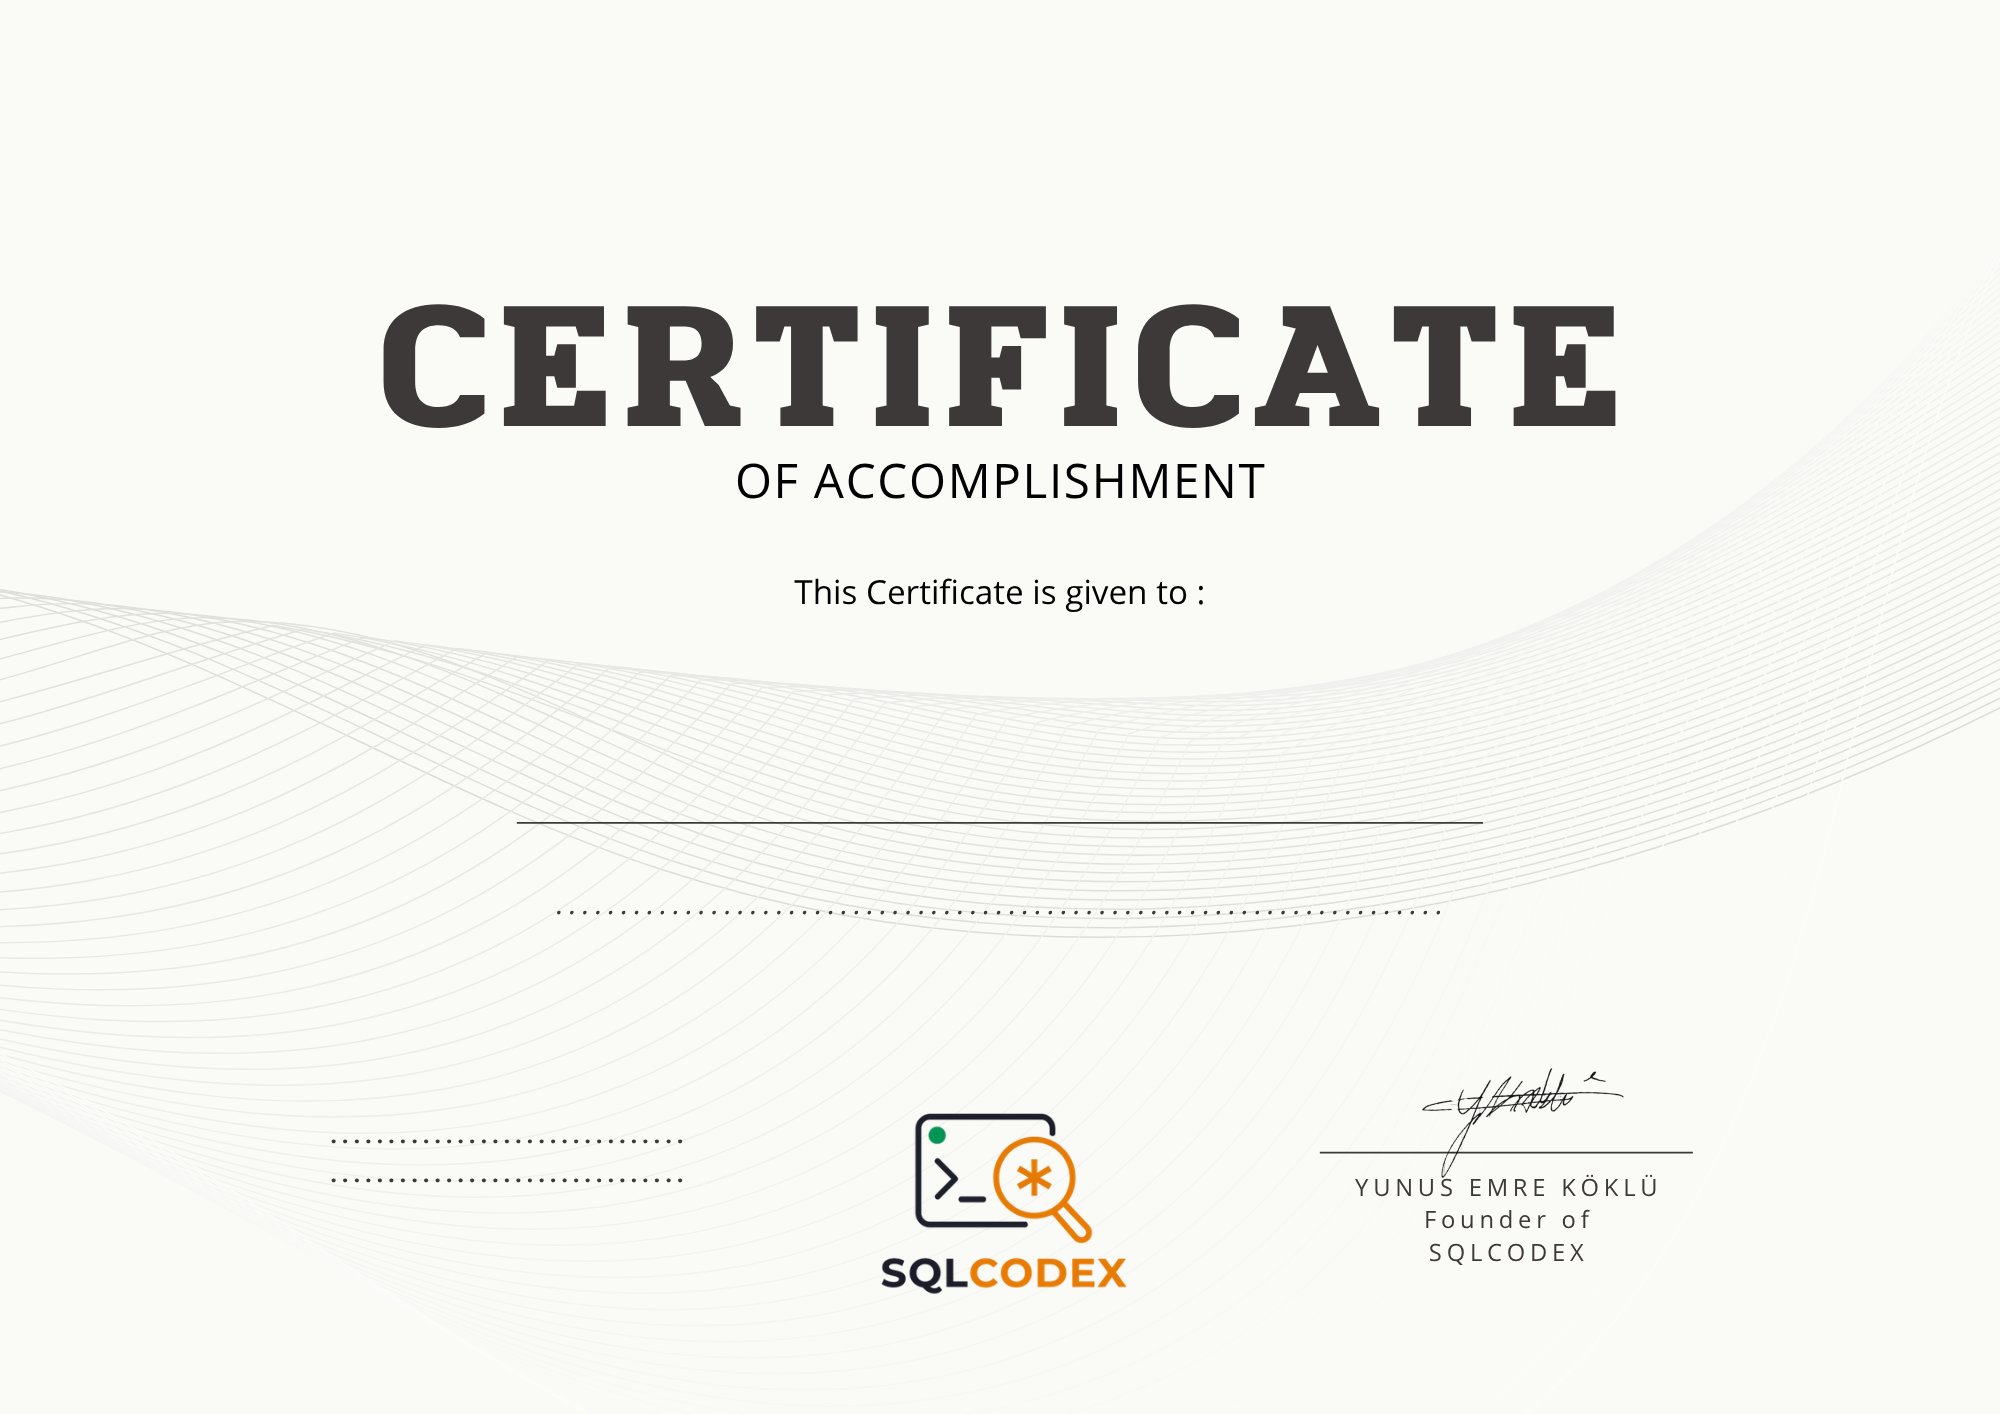
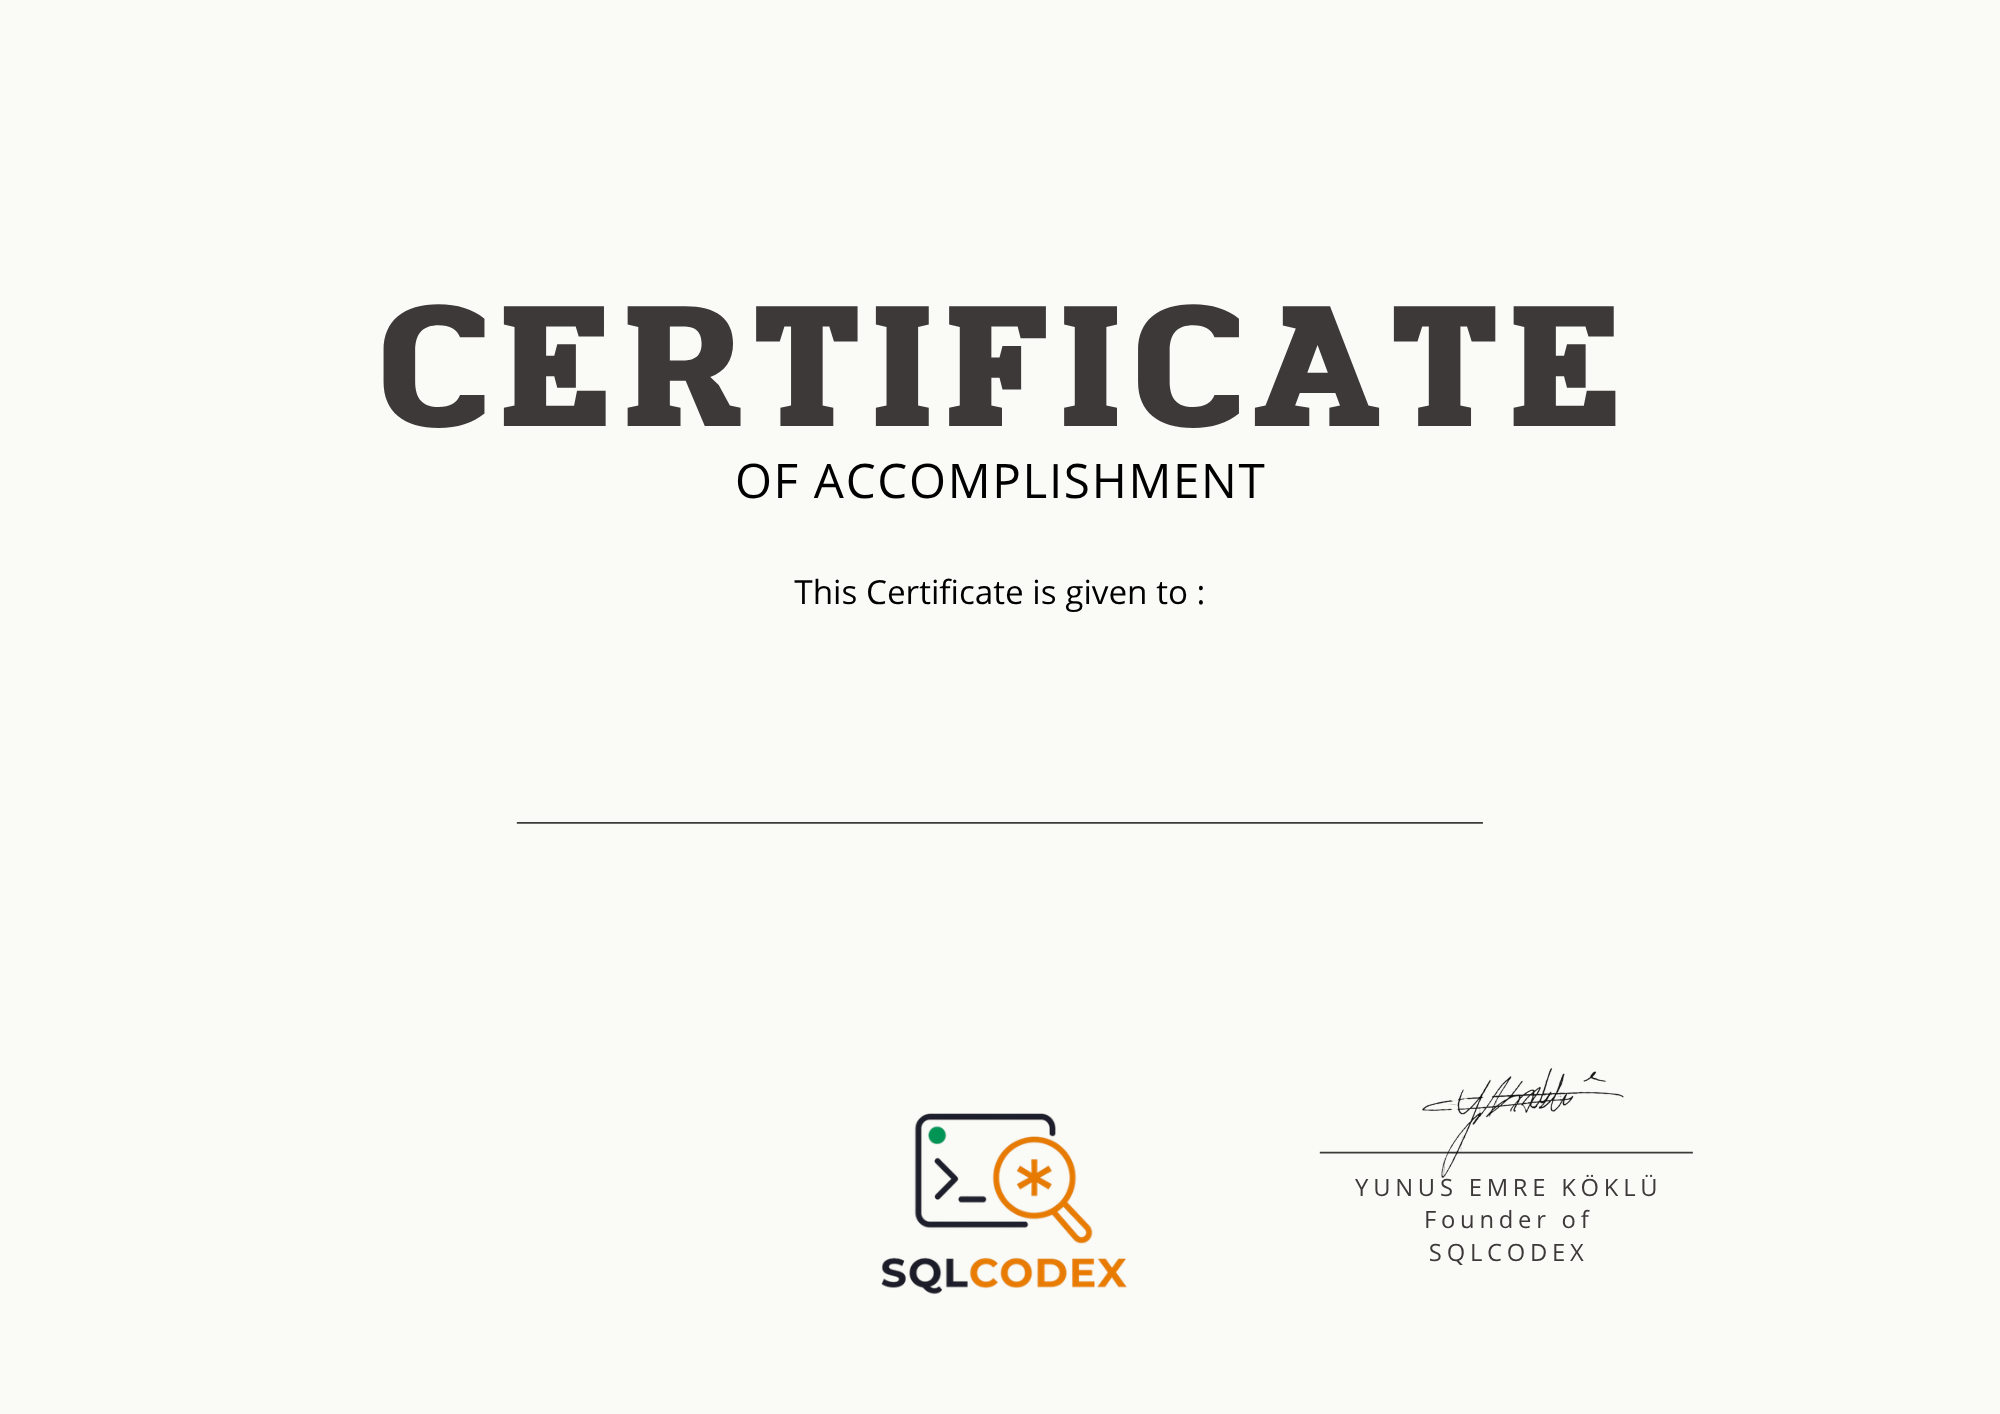
Faz 6a takip turu 6 devam: Noktalı çizgi düzeltmesi + "Tümünü Tamamla" büyük sertifikası
Standart şablon, kullanıcının noktaları tamamen kaldırdığı yeni sürümüyle
değiştirildi (metnin altından noktalı çizgi görünmesi sorunu çözüldü —
metin pozisyonu zaten doğruydu, sorun görseldeki noktaların kendisiydi).

Yeni 8. sertifika türü "tumu": 5 ünite + pratik + mülakatın hepsi
tamamlanınca kazanılan, kullanıcının verdiği altın temalı özel şablonu
(public/sertifika-arka-plan-tumu.png) kullanan, daha süslü bir cümleyle
("Has successfully completed the entire SQLCODEX curriculum — Learn,
Practical, and Interview.") verilen özet sertifika. Ana sayfaya yeni
TumSertifikalarBanner eklendi (sadece hepsi tamamlanınca görünür).

diff --git a/components/certificate/SertifikaSayfasi.tsx b/components/certificate/SertifikaSayfasi.tsx
@@ -12,13 +12,14 @@ import { SertifikaKarti } from "@/components/certificate/SertifikaKarti";
 import { YazdirButonu } from "@/components/print/YazdirButonu";
 import { KART_SINIFI } from "@/lib/ui/kart";
 
-type SertifikaTuru = { tip: "unite"; uniteId: number } | { tip: "pratik" } | { tip: "mulakat" };
+type SertifikaTuru = { tip: "unite"; uniteId: number } | { tip: "pratik" } | { tip: "mulakat" } | { tip: "tumu" };
 
 function turuAyristir(tur: string): SertifikaTuru | null {
   const eslesme = /^unite-([1-5])$/.exec(tur);
   if (eslesme) return { tip: "unite", uniteId: Number(eslesme[1]) };
   if (tur === "pratik") return { tip: "pratik" };
   if (tur === "mulakat") return { tip: "mulakat" };
+  if (tur === "tumu") return { tip: "tumu" };
   return null;
 }
 
@@ -33,10 +34,16 @@ function baslikVeGeriLink(turu: SertifikaTuru): { baslik: string; geriLink: stri
   if (turu.tip === "pratik") {
     return { baslik: "Pratik", geriLink: "/pratik/", geriMetin: "Pratik sayfasına dön" };
   }
-  return { baslik: "Mülakat", geriLink: "/mulakat/", geriMetin: "Mülakat sayfasına dön" };
+  if (turu.tip === "mulakat") {
+    return { baslik: "Mülakat", geriLink: "/mulakat/", geriMetin: "Mülakat sayfasına dön" };
+  }
+  return { baslik: "Büyük Sertifika", geriLink: "/", geriMetin: "Ana sayfaya dön" };
 }
 
 function kursSatiriUret(turu: SertifikaTuru): string {
+  if (turu.tip === "tumu") {
+    return "Has successfully completed the entire SQLCODEX curriculum — Learn, Practical, and Interview.";
+  }
   const ek =
     turu.tip === "unite" ? `Unit ${turu.uniteId} course.` : turu.tip === "pratik" ? "Practical Section." : "Interview Section.";
   return `Has successfully completed the SQLCODEX ${ek}`;
@@ -53,7 +60,11 @@ export function SertifikaSayfasi({ tur }: { tur: string }) {
       ? uniteTamamlandiMi(turu.uniteId, TUM_DERSLER, ilerleme.tamamlananDersler)
       : turu.tip === "pratik"
         ? pratikTamamlandiMi(TUM_PRATIK_SETLERI, ilerleme.alistirmalar)
-        : mulakatTamamlandiMi(TUM_MULAKAT_SORULARI, ilerleme.cozulenMulakatSorulari)
+        : turu.tip === "mulakat"
+          ? mulakatTamamlandiMi(TUM_MULAKAT_SORULARI, ilerleme.cozulenMulakatSorulari)
+          : [1, 2, 3, 4, 5].every((uniteId) => uniteTamamlandiMi(uniteId, TUM_DERSLER, ilerleme.tamamlananDersler)) &&
+            pratikTamamlandiMi(TUM_PRATIK_SETLERI, ilerleme.alistirmalar) &&
+            mulakatTamamlandiMi(TUM_MULAKAT_SORULARI, ilerleme.cozulenMulakatSorulari)
     : false;
 
   const kayit = ilerleme.kazanilanSertifikalar[tur];
@@ -91,7 +102,9 @@ export function SertifikaSayfasi({ tur }: { tur: string }) {
     return (
       <div className="mx-auto w-full max-w-2xl px-4 py-16">
         <div className={KART_SINIFI}>
-          <p className="text-lg font-semibold">🎓 Tebrikler, {baslik} sertifikasını kazandın!</p>
+          <p className="text-lg font-semibold">
+            {turu.tip === "tumu" ? "🏆 Tebrikler, SQLCODEX'i baştan sona tamamladın!" : `🎓 Tebrikler, ${baslik} sertifikasını kazandın!`}
+          </p>
           <p className="mt-2 text-sm text-stone-500 dark:text-stone-400">
             Sertifikada görünecek adını yaz — bir kez girilir, sonraki tüm sertifikalarda otomatik kullanılır.
           </p>
@@ -131,7 +144,13 @@ export function SertifikaSayfasi({ tur }: { tur: string }) {
 
   return (
     <div className="mx-auto w-full max-w-3xl px-4 py-16">
-      <SertifikaKarti ad={ilerleme.kullaniciAdi} kursSatiri={kursSatiriUret(turu)} tarih={kayit.tarih} id={kayit.id} />
+      <SertifikaKarti
+        ad={ilerleme.kullaniciAdi}
+        kursSatiri={kursSatiriUret(turu)}
+        tarih={kayit.tarih}
+        id={kayit.id}
+        arkaPlan={turu.tip === "tumu" ? "/sertifika-arka-plan-tumu.png" : "/sertifika-arka-plan.png"}
+      />
       <div className="print:hidden mt-5 flex items-center justify-center gap-4">
         <YazdirButonu />
         <button

diff --git a/components/certificate/TumSertifikalarBanner.tsx b/components/certificate/TumSertifikalarBanner.tsx
@@ -1,0 +1,28 @@
+"use client";
+
+import Link from "next/link";
+import { TUM_DERSLER } from "@/content/lessons";
+import { TUM_PRATIK_SETLERI } from "@/content/practice";
+import { TUM_MULAKAT_SORULARI } from "@/content/interview";
+import { uniteTamamlandiMi, pratikTamamlandiMi, mulakatTamamlandiMi } from "@/lib/progress/sertifika";
+import { useProgress } from "@/components/progress/ProgressProvider";
+
+export function TumSertifikalarBanner() {
+  const { ilerleme } = useProgress();
+
+  const tamamlandiMi =
+    [1, 2, 3, 4, 5].every((uniteId) => uniteTamamlandiMi(uniteId, TUM_DERSLER, ilerleme.tamamlananDersler)) &&
+    pratikTamamlandiMi(TUM_PRATIK_SETLERI, ilerleme.alistirmalar) &&
+    mulakatTamamlandiMi(TUM_MULAKAT_SORULARI, ilerleme.cozulenMulakatSorulari);
+
+  if (!tamamlandiMi) return null;
+
+  return (
+    <Link
+      href="/sertifika/tumu/"
+      className="inline-flex items-center gap-2 rounded-full border-2 border-accent bg-orange-50 px-5 py-2.5 text-sm font-semibold text-accent transition-colors hover:bg-orange-100 dark:bg-orange-950/30 dark:hover:bg-orange-950/50"
+    >
+      🏆 SQLCODEX'i baştan sona bitirdin — büyük sertifikanı gör
+    </Link>
+  );
+}

diff --git a/components/certificate/SertifikaKarti.tsx b/components/certificate/SertifikaKarti.tsx
@@ -3,6 +3,7 @@ interface SertifikaKartiProps {
   kursSatiri: string;
   tarih: string;
   id: string;
+  arkaPlan?: string;
 }
 
 /**
@@ -13,11 +14,11 @@ interface SertifikaKartiProps {
  * kalibre edildi; img tam genişlikte render edildiği için yüzdeler farklı
  * ekran boyutlarında da doğru hizalanır.
  */
-export function SertifikaKarti({ ad, kursSatiri, tarih, id }: SertifikaKartiProps) {
+export function SertifikaKarti({ ad, kursSatiri, tarih, id, arkaPlan = "/sertifika-arka-plan.png" }: SertifikaKartiProps) {
   return (
     <div className="relative mx-auto w-full max-w-3xl [container-type:inline-size]">
       {/* eslint-disable-next-line @next/next/no-img-element */}
-      <img src="/sertifika-arka-plan.png" alt="" className="h-auto w-full select-none" draggable={false} />
+      <img src={arkaPlan} alt="" className="h-auto w-full select-none" draggable={false} />
 
       <p
         className="font-script absolute inset-x-0 text-center text-stone-900"

diff --git a/app/sertifika/[tur]/page.tsx b/app/sertifika/[tur]/page.tsx
@@ -1,7 +1,7 @@
 import type { Metadata } from "next";
 import { SertifikaSayfasi } from "@/components/certificate/SertifikaSayfasi";
 
-const TUM_TURLER = ["unite-1", "unite-2", "unite-3", "unite-4", "unite-5", "pratik", "mulakat"] as const;
+const TUM_TURLER = ["unite-1", "unite-2", "unite-3", "unite-4", "unite-5", "pratik", "mulakat", "tumu"] as const;
 
 export function generateStaticParams() {
   return TUM_TURLER.map((tur) => ({ tur }));

diff --git a/app/page.tsx b/app/page.tsx
@@ -1,4 +1,5 @@
 import Link from "next/link";
+import { TumSertifikalarBanner } from "@/components/certificate/TumSertifikalarBanner";
 
 export default function Home() {
   return (
@@ -28,6 +29,7 @@ export default function Home() {
           Playground&apos;u dene
         </Link>
       </div>
+      <TumSertifikalarBanner />
     </div>
   );
 }
